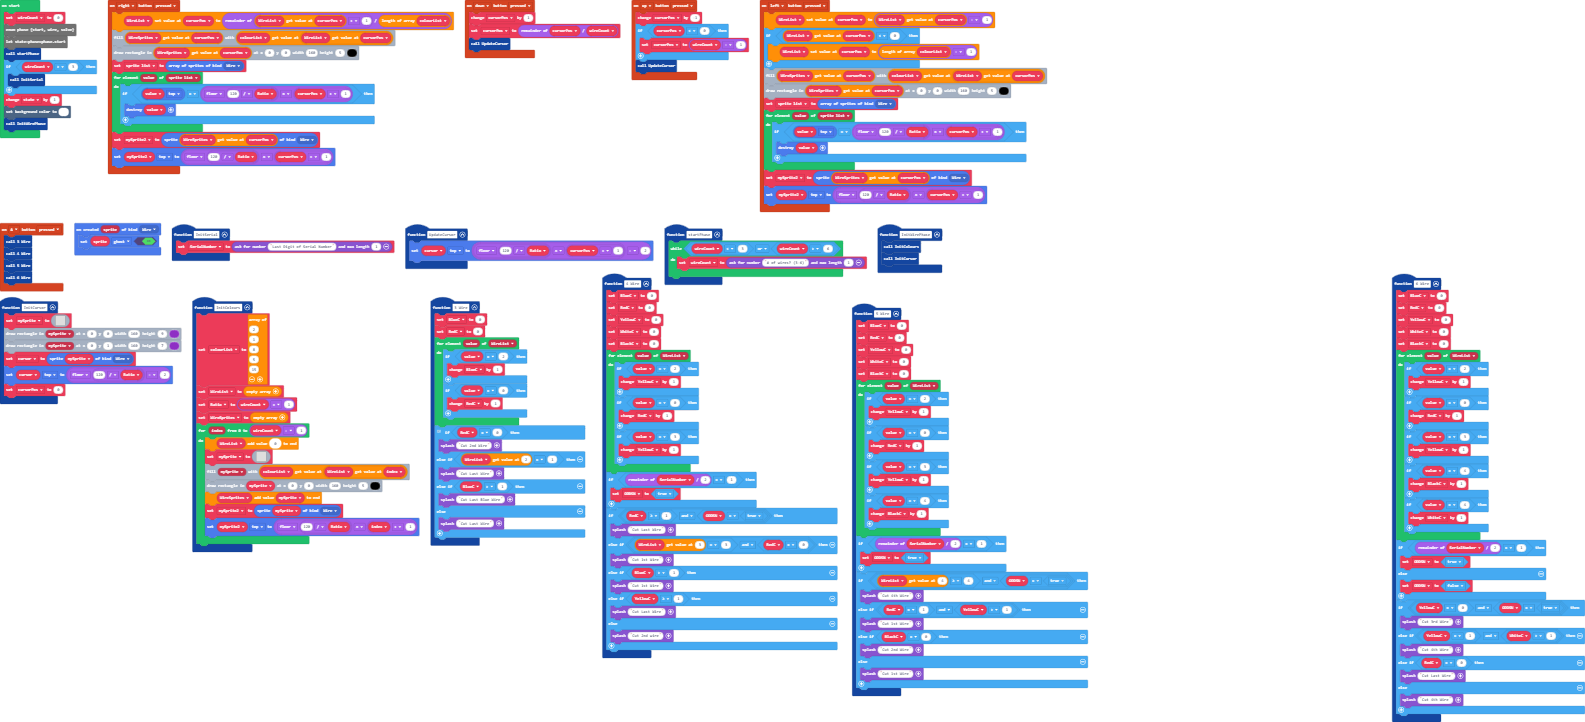
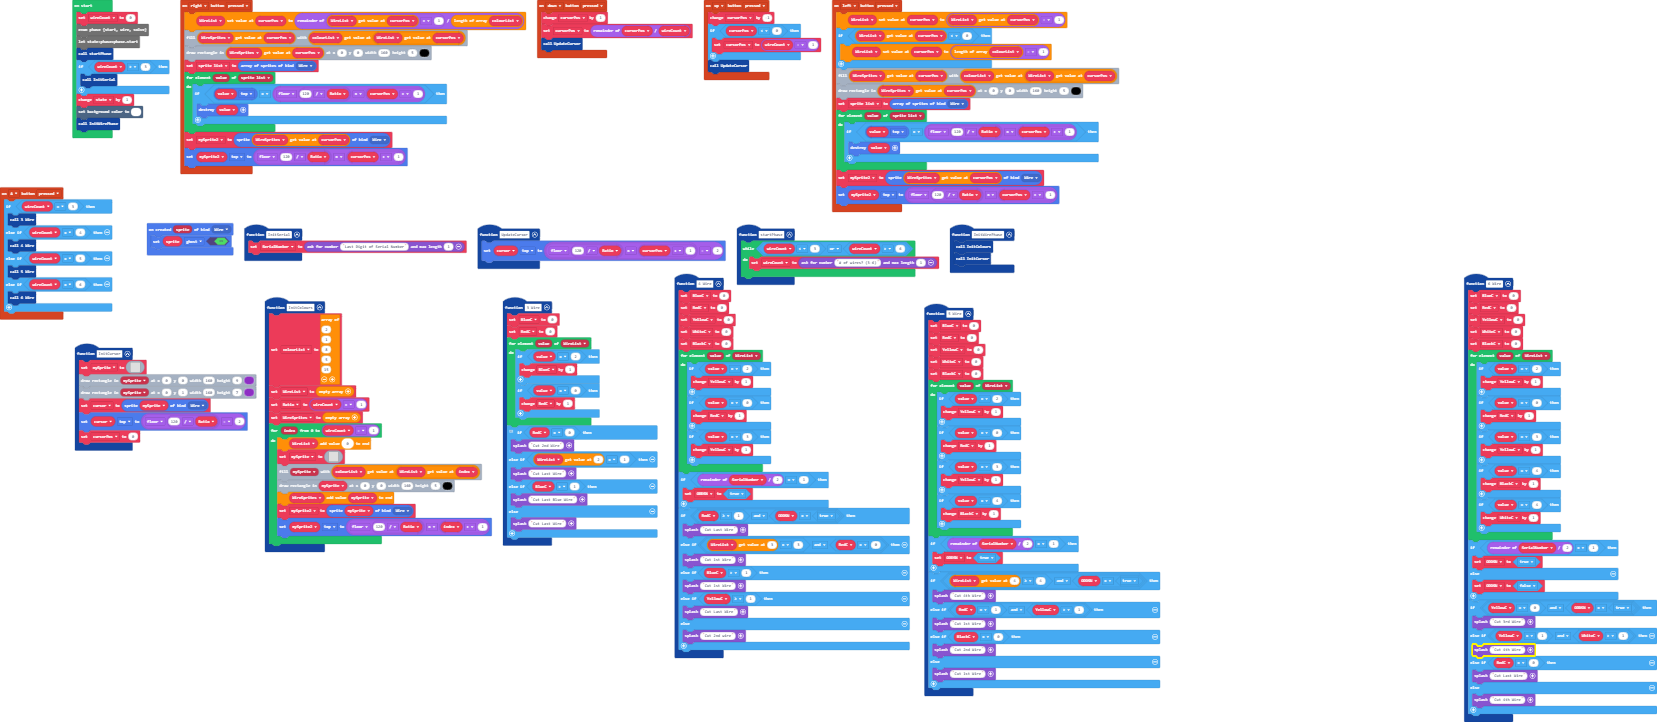
Stuff

Changed region(s): [[0.0, 0.0, 0.711, 0.9751], [0.8656, 0.3657, 0.9893, 1.0]]

diff --git a/main.ts b/main.ts
@@ -49,10 +49,15 @@ function startPhase () {
     }
 }
 controller.A.onEvent(ControllerButtonEvent.Pressed, function () {
-    _3_Wire()
-    _4_Wire()
-    _5_Wire()
-    _6_Wire()
+    if (wireCount == 3) {
+        _3_Wire()
+    } else if (wireCount == 4) {
+        _4_Wire()
+    } else if (wireCount == 5) {
+        _5_Wire()
+    } else if (wireCount == 6) {
+        _6_Wire()
+    }
 })
 function InitSerial () {
     SerialNumber = game.askForNumber("Last Digit of Serial Number", 1)
